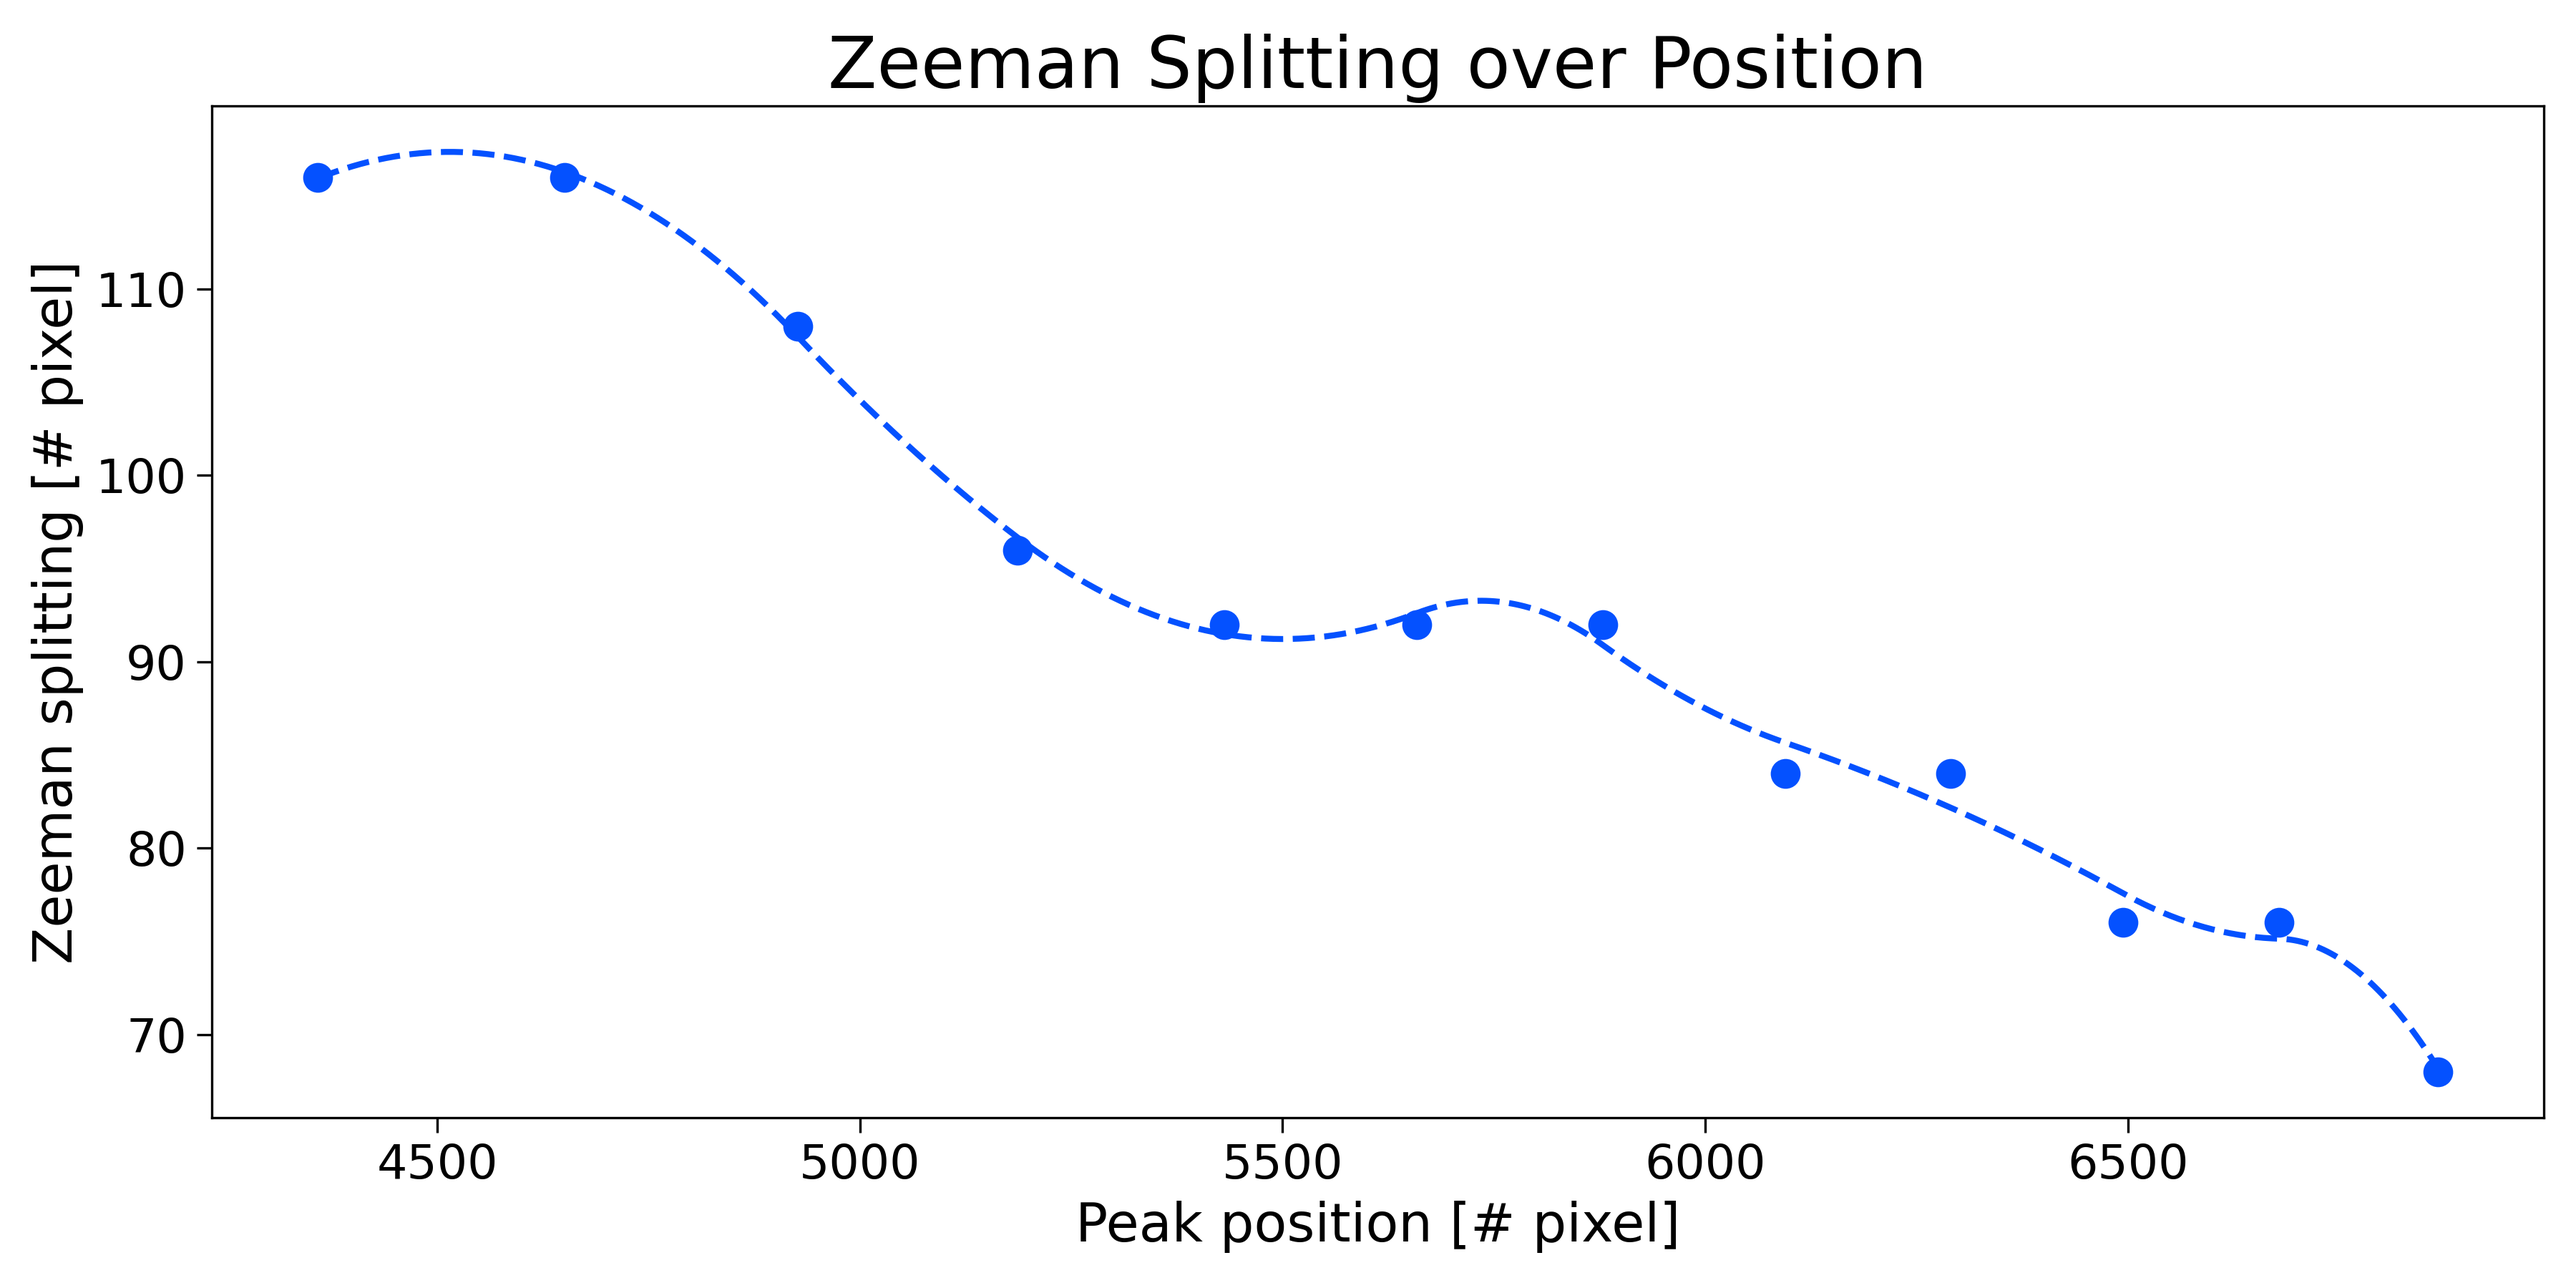
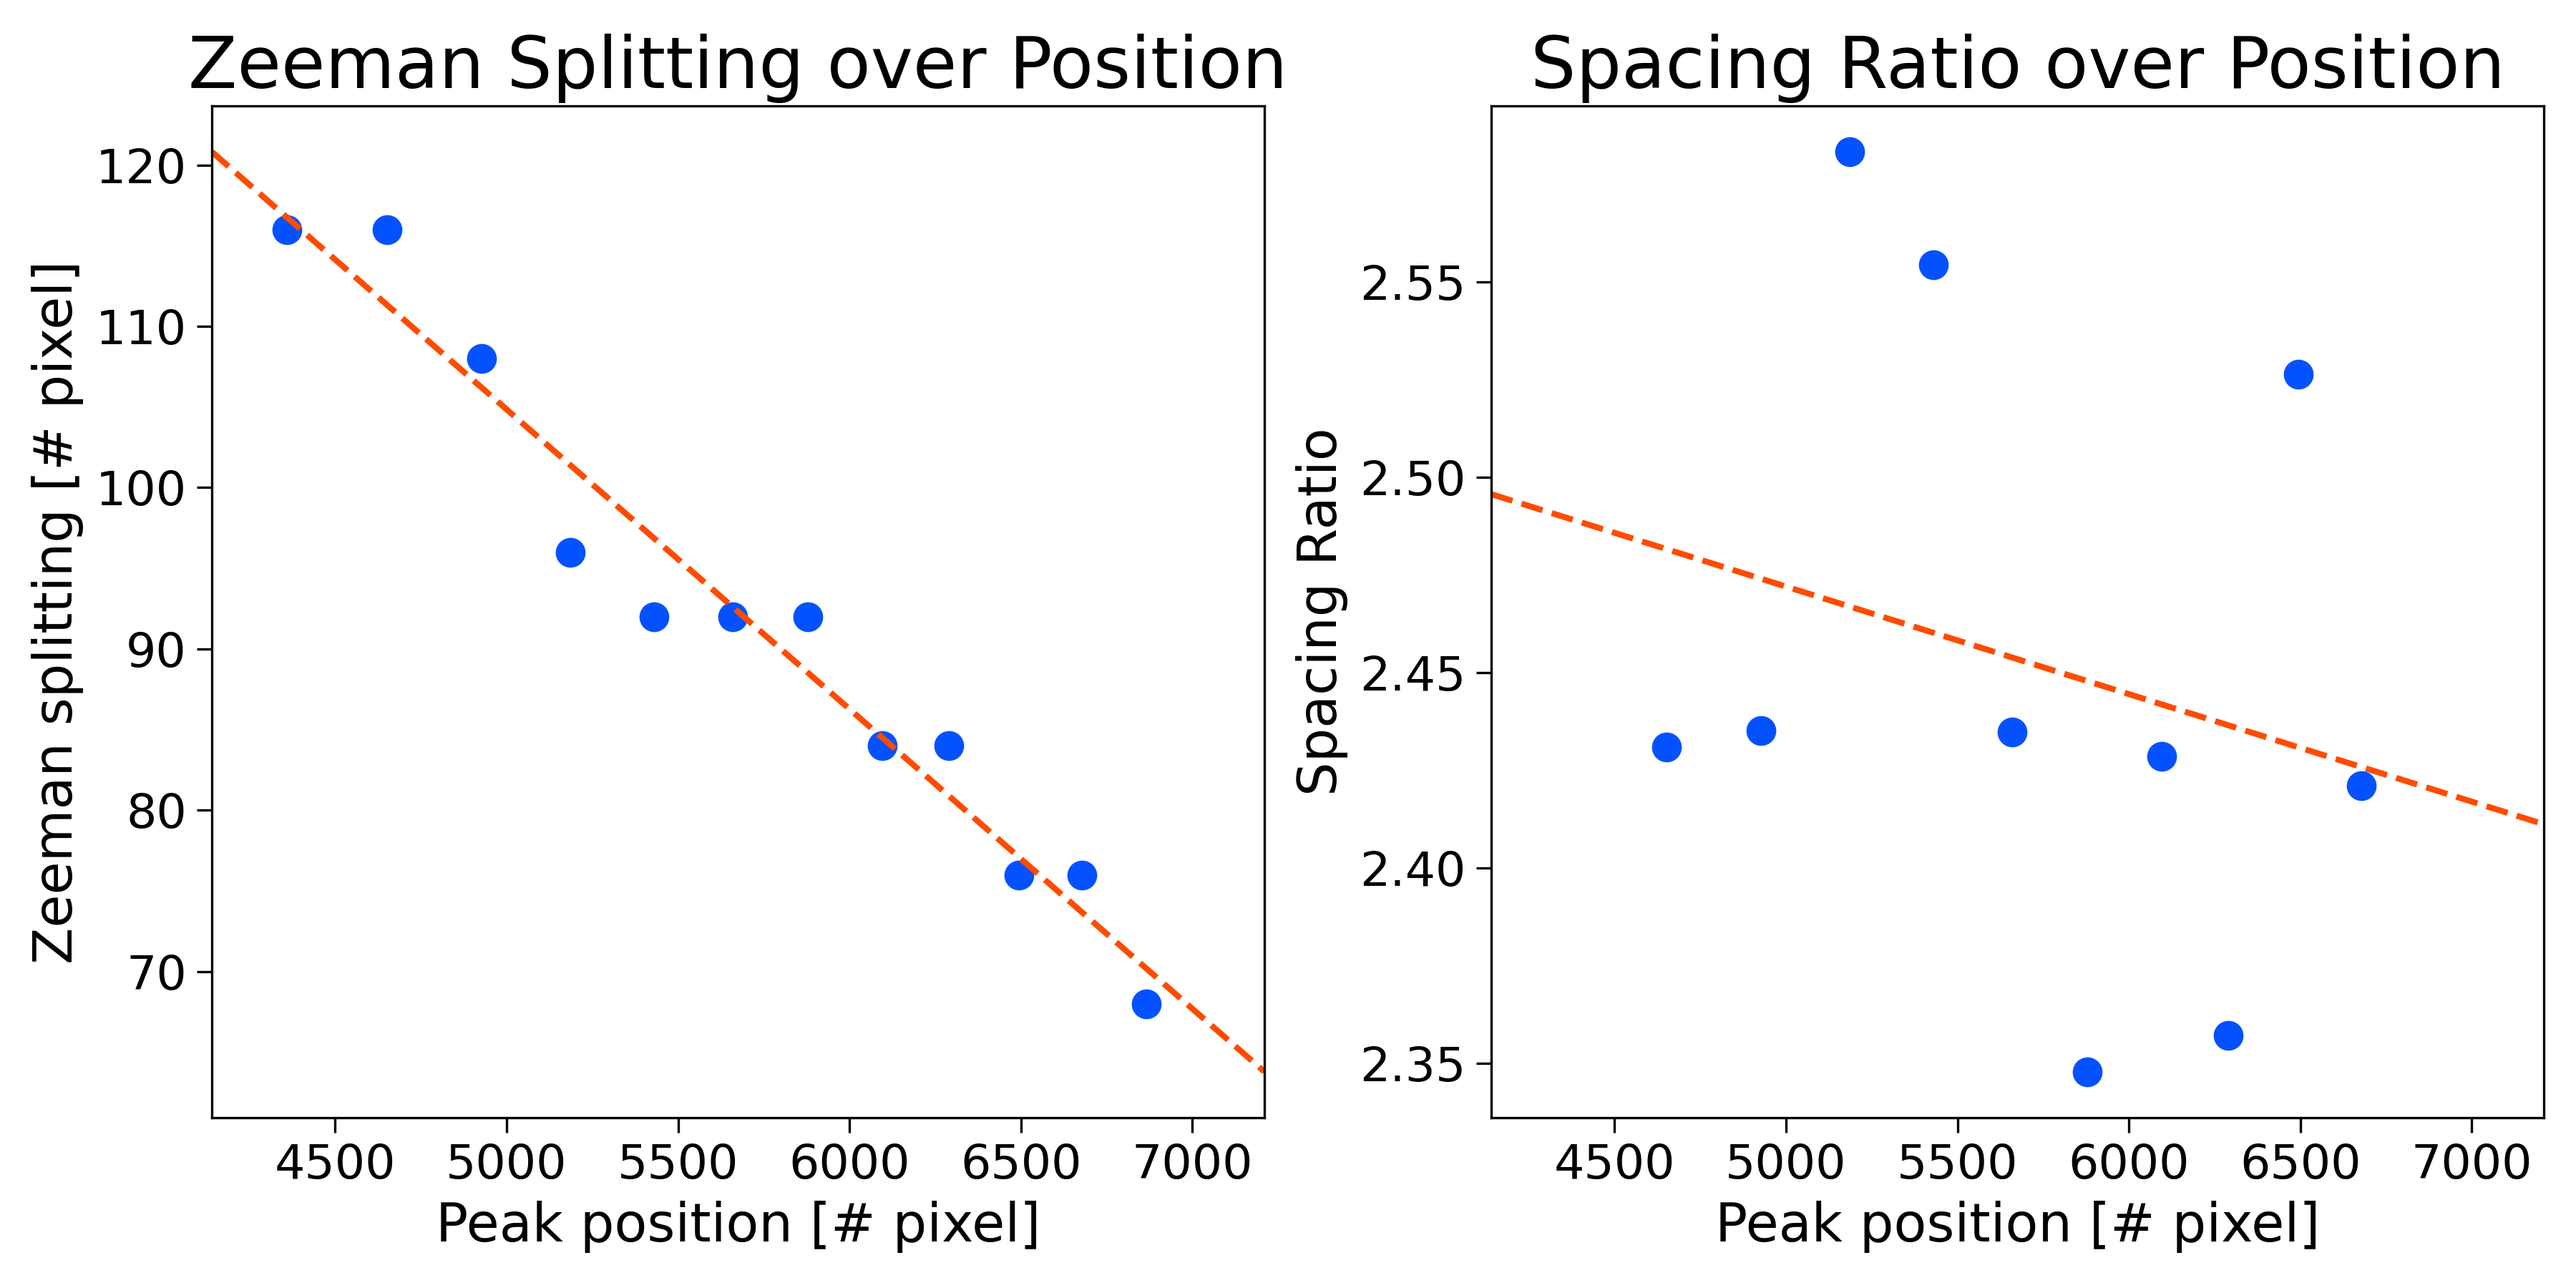
Made new plot

diff --git a/EFFETTO ZEEMAN/Code/landeFactor.py b/EFFETTO ZEEMAN/Code/landeFactor.py
@@ -194,34 +194,60 @@ def select_skip(iterable, select, skip):
 
 
 
-def zeemanTrend(newData, Peaks, zeemanSpacing):
+def lin(x, a, b):
+    return a*x + b
+
+def zeemanTrend(newData, Peaks, zeemanSpacing, peakSpacing):
+
 
     Y = np.array(zeemanSpacing) * 4
+    X = newData['X'].iloc[Peaks]
+
+    Y2 = np.array(peakSpacing) * 4
+    YY = Y2/Y[1:-1]
+
+    XMIN = newData['X'].iloc[Peaks[0]] * (1-5/100)
+    XMAX = newData['X'].iloc[Peaks[-1]] * (1+5/100)
+
+    par1, cov = curve_fit(lin, X, Y)
+    par2, cov = curve_fit(lin, X[1:-1], YY)
 
     # create figure
     fig = plt.figure(figsize=(12,6))
 
     # create axes
-    ax1 = fig.add_subplot(1, 1, 1)
+    ax1 = fig.add_subplot(1, 2, 1)
+    ax2 = fig.add_subplot(1, 2, 2)
 
-    spline1 = UnivariateSpline(newData['X'].iloc[Peaks], Y, k = 2)
-    xs = np.linspace(newData['X'].iloc[Peaks[0]], newData['X'].iloc[Peaks[-1]], 500)
+    spline1 = UnivariateSpline(X, Y, k = 2)
+    xs = np.linspace(XMIN, XMAX, 1000)
 
     # show plots
-    ax1.plot(newData['X'].iloc[Peaks], Y, marker = '.', markersize = 18, linewidth = 0, color = '#0451FF')
-    ax1.plot(xs, spline1(xs), marker = '.', markersize = 0, linewidth = 2, linestyle = 'dashed', color = '#0451FF')
+    ax1.plot(X, Y, marker = '.', markersize = 18, linewidth = 0, color = '#0451FF')
+    ax1.plot(xs, lin(xs, *par1), marker = '.', markersize = 0, linewidth = 2, linestyle = 'dashed', color = '#FF4B00')
+
+    ax2.plot(X[1:-1], YY, marker = '.', markersize = 18, linewidth = 0, color = '#0451FF')
+    ax2.plot(xs, lin(xs, *par2), marker = '.', markersize = 0, linewidth = 2, linestyle = 'dashed', color = '#FF4B00')
 
 
     # titles
     ax1.set_title('Zeeman Splitting over Position', fontsize = 24)
+    ax2.set_title('Spacing Ratio over Position', fontsize = 24)
 
 
     # labels
     ax1.set_xlabel('Peak position [# pixel]', fontsize = 18)
     ax1.set_ylabel('Zeeman splitting [# pixel]', fontsize = 18)
 
+    ax2.set_xlabel('Peak position [# pixel]', fontsize = 18)
+    ax2.set_ylabel('Spacing Ratio', fontsize = 18)
+
 
     ax1.tick_params(axis = 'both', which = 'major', labelsize = 16, direction = 'out', length = 5)
+    ax2.tick_params(axis = 'both', which = 'major', labelsize = 16, direction = 'out', length = 5)
+
+    ax1.set_xlim(XMIN, XMAX)
+    ax2.set_xlim(XMIN, XMAX)
 
     fig.tight_layout()
     # fig.savefig('../Plots/Bon_zeeman_trend.png', dpi = 300, facecolor = 'white')
@@ -251,7 +277,7 @@ def main(fname):
     newSpacing_zee = select_skip(Spacing_zee[1:-1], 1, 2)
 
     # plot trend
-    zeemanTrend(newData, select_skip(Peaks, 1, 1), Spacing_zee)
+    zeemanTrend(newData, select_skip(Peaks, 1, 1), Spacing_zee, Spacing)
 
     dLru = computeDeltaLru()
 
